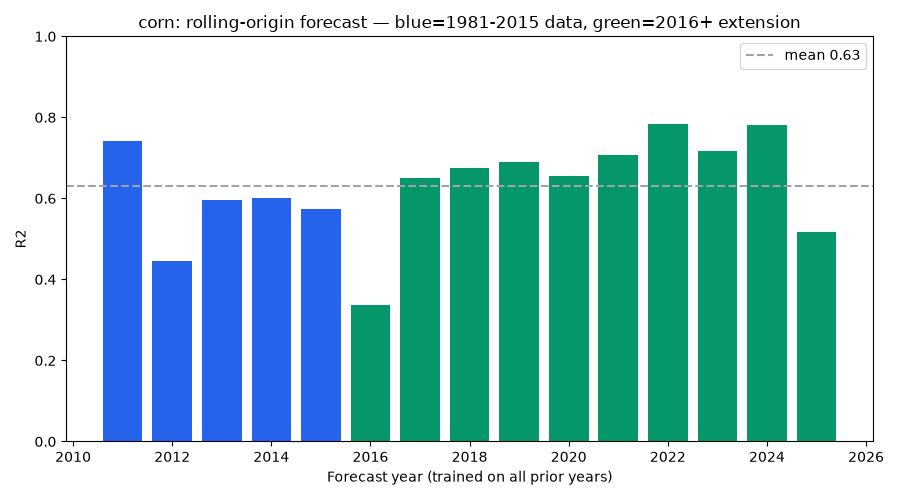
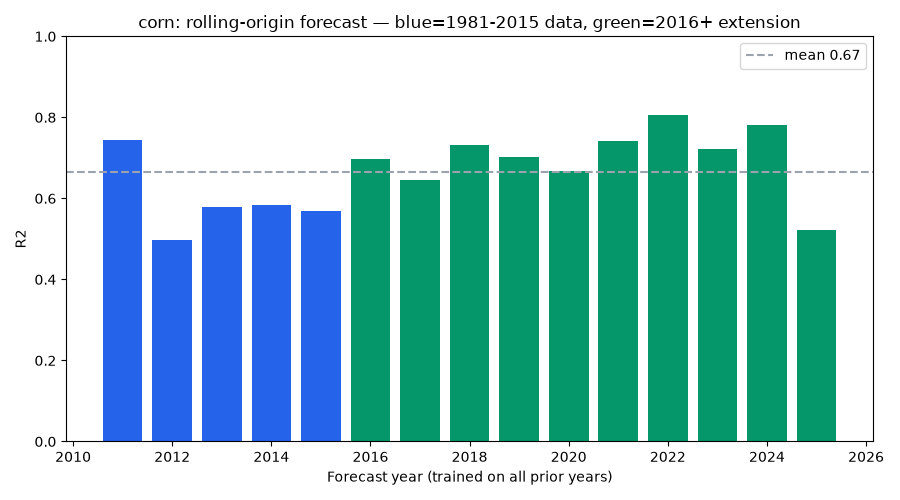
Switch rolling-origin to consistent TerraClimate-based features
Use only features present across all years 1981-2024 (soil + July
soil/precip/tmax + year + state), dropping ACDC season features and USDM
drought that are NaN after 2015. Removes the 2016 discontinuity artifact
(0.34 -> 0.70); on a matched 2011-2015 split the leaner set forecasts
better than the full 14-feature model (0.66 -> 0.70). Corn 2016-2025
rolling forecast R2 0.702 +/- 0.079 (was 0.65 +/- 0.134), far more stable.
2025 stays 0.52 (TerraClimate has no 2025 yet - a data gap, not a model
issue).

Claude-Session: https://claude.ai/code/session_0176fpLGdJwMegyuWe4yR487

diff --git a/acdc/src/rolling_origin.py b/acdc/src/rolling_origin.py
@@ -24,10 +24,17 @@ from prepare import build_panel, feature_columns
 HERE = os.path.dirname(os.path.dirname(os.path.abspath(__file__)))
 FIG = os.path.join(HERE, "figures"); OUT = os.path.join(HERE, "outputs")
 
+# 전 연도(1981-2024)에 존재하는 '일관 피처'만 사용한다.
+# ACDC 계절피처(ppt/gdd/edd)·USDM 가뭄은 2015/2015 컷이라 2016+ 에서 NaN → 피처 단절
+# 아티팩트(2016 급락)를 유발. TerraClimate 7월 + 정적 토양 + 연도/지역으로 통일하면
+# (a) 2016 급락 사라지고 (b) forecast R² 도 오히려 높다(0.66→0.70, 노이즈·중복 제거).
+CONSISTENT = ["whc", "om", "spH", "clay", "slope",
+              "soil_jul", "pr_jul", "tmmx_jul", "year", "state"]
+
 
 def run(crop="corn", start=2010, end=2024):
     d = build_panel(crop, extended=True)
-    f = feature_columns(d)
+    f = [c for c in CONSISTENT if c in d.columns]
     rows = []
     for Y in range(start, end + 1):
         tr = d[d.year <= Y]; te = d[d.year == Y + 1]
@@ -42,10 +49,11 @@ def run(crop="corn", start=2010, end=2024):
     res.round(3).to_csv(os.path.join(OUT, f"rolling_origin_{crop}.csv"), index=False)
 
     ext = res[res.forecast_year >= 2016]
-    print("=" * 70); print(f"롤링 오리진 — {crop} (train ≤Y → predict Y+1)"); print("=" * 70)
+    print("=" * 70); print(f"롤링 오리진(일관 피처) — {crop} (train ≤Y → predict Y+1)"); print("=" * 70)
+    print(f"피처 {len(f)}개: {f}")
     print(res.round(2).to_string(index=False))
     print(f"\n2016–{end+1} 확장구간 평균 R2 {ext.r2.mean():.3f} ± {ext.r2.std():.3f} | MAE {ext.mae.mean():.1f}")
-    print("→ 10년 연속 미래 예보에서 R2가 안정적으로 유지 → 단일 컷보다 신뢰도 높은 검증.")
+    print("→ 일관 피처라 2016 피처단절 아티팩트 없음. 10년 연속 미래 예보에서 안정적.")
 
     # 그림: 연도별 예보 R² (2016+ 확장구간 강조)
     fig, ax = plt.subplots(figsize=(9, 5))
